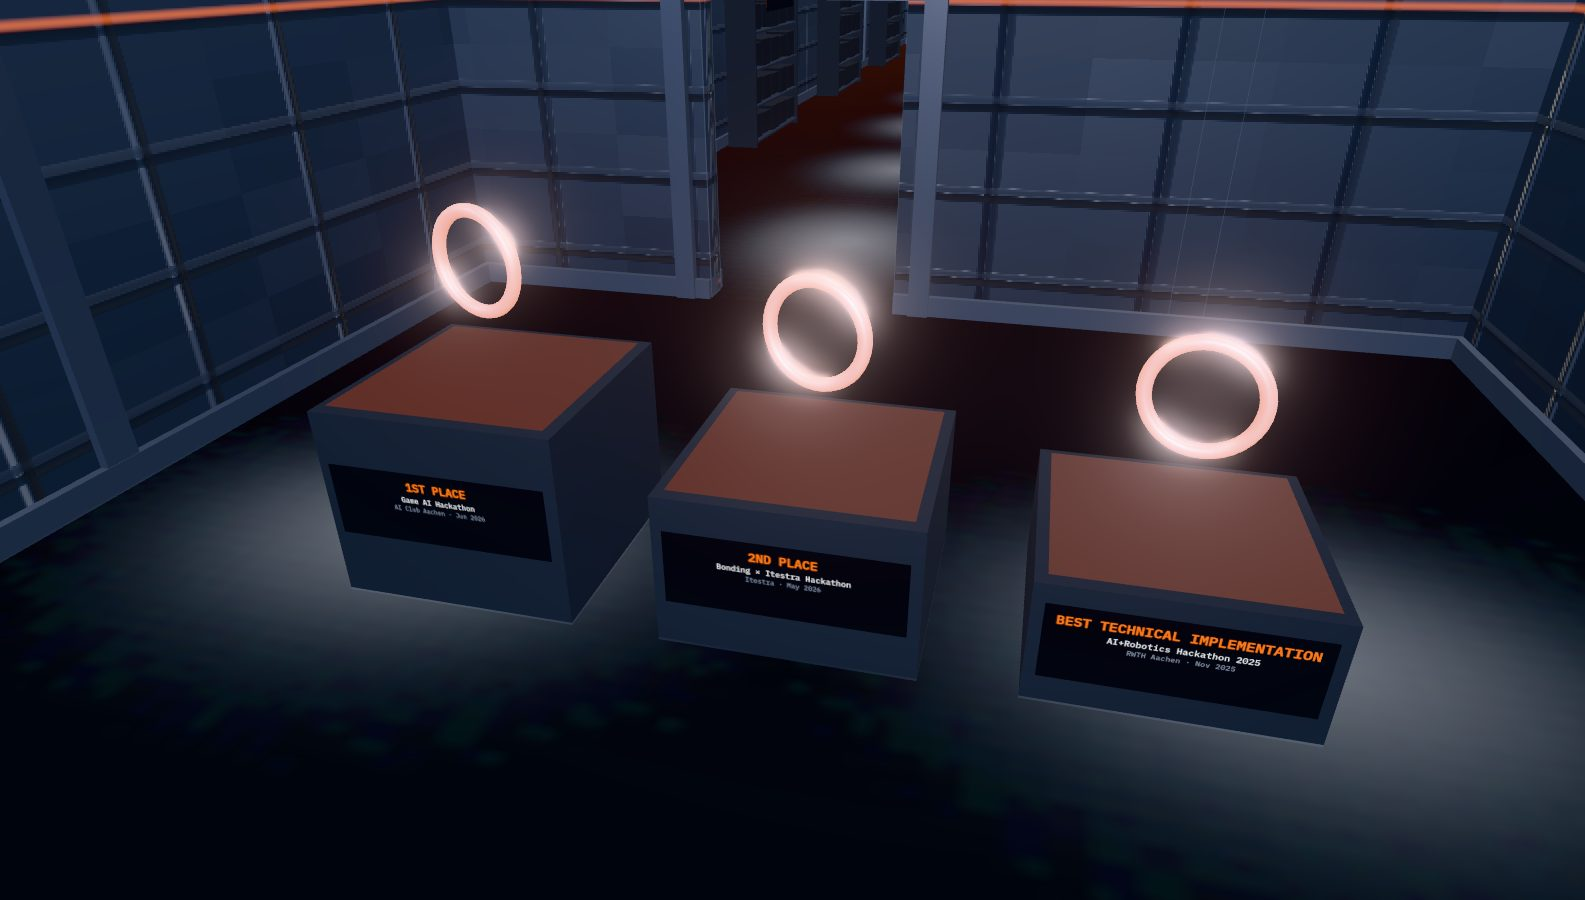
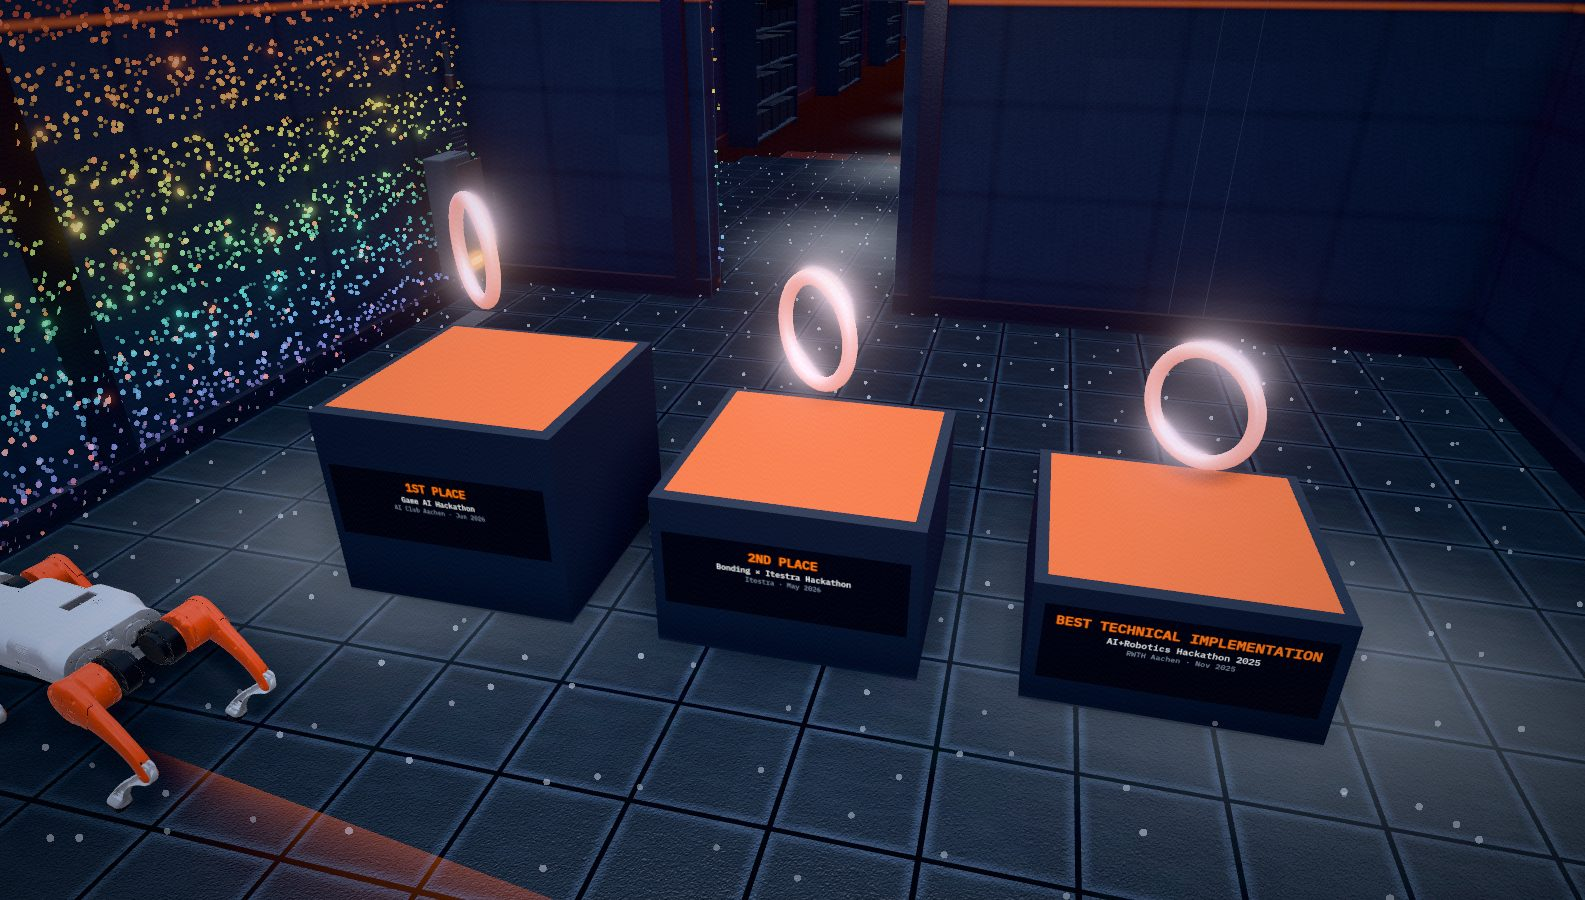
chore(assets): re-bake the posters against the new look
Textures, occlusion, the grade and the prop kit changed every frame of the
world, so the static-mode backgrounds no longer matched it. Baked with the
browser visible this time, which is what zone 3 needed: its hologram panels are
animated by framer-motion, and framer-motion runs on requestAnimationFrame.

diff --git a/docs/redesign/HANDOFF.md b/docs/redesign/HANDOFF.md
@@ -207,10 +207,25 @@ GitHub Pages soft limit is ~1 GB per site → re-encoding is not optional. Pendi
 
   **Working note worth keeping.** A hidden browser pane parks `requestAnimationFrame`. Screenshots still capture (they force a paint) so everything *looks* fine, but nothing animates, the R3F loop does not advance, GSAP does not tick, and — because the viewport boots at zero width — the page silently enters **static mode**, serving baked posters instead of the world. Two hours went into chasing symptoms of that. `?mode=world` forces the world on; `window.__r3f.advance(t)` steps the scene by hand (~250 ms a frame while hidden, and yield between batches or React never commits); `/lab/tall?cam=x,y,z&look=x,y,z` moves the lab rig for close inspection.
 
+- **2026-09-10 · session 3i · the world stops looking like coloured boxes**
+  Adyansh: *"all geometry colours are plane… enhance the entire world to make it look more realistic"*, then *"don't be shy… way more cooler"*. Every surface was a flat colour with a constant roughness — a real surface varies over centimetres and none of these did.
+
+  **A baked PBR library.** `scripts/blender/textures.py` renders six industrial material sets — sealed concrete, painted steel panel, ribbed roof deck, brushed structural steel, moulded tote, pebbled rubber — as Blender shader graphs, one channel at a time. They tile because they are sampled on a **torus in 4D**: `u,v → (cos a, sin a, cos b)` with `W = sin b`, so opposite edges of the square are literally the same point and there is no seam to hide. `scripts/textures/pack.py` turns the height field into a normal map (Sobel with `np.roll`, or the packing puts the seam back) and packs occlusion, roughness and metalness into one ORM texture.
+  Rendering beats baking headlessly: `bpy.ops.object.bake` wants a bake target, a UV layout and a lit scene and fails quietly in a dozen ways, while an ortho camera framing a UV-mapped plane through an Emission shader is exact and noiseless at one sample. **The gotcha that cost the first run:** `ShaderNodeMix` carries one output per data type and only the matching one is driven — taking Color from a Float mix silently emits white, which is why every height and roughness map came out flat.
+
+  **UVs.** None of this geometry has any: it is merged boxes, and a box's UVs run 0..1 per face, so a texture applied straight stretches to whatever size that box happens to be. `worldUV` rewrites them from world position projected on each vertex's dominant axis — triplanar mapping resolved once on the CPU rather than three times per fragment, which works precisely because the architecture is axis-aligned.
+
+  **Two things were doing most of the flatness, and neither was the textures.** Image-based lighting came from three's `RoomEnvironment`, which is a white photographic studio, so every metal surface in the building reflected the same neutral grey; it is now the facility's *own* lighting convolved to a cubemap — cool strips overhead, the warm accent bands along the walls, a dim floor bounce, black elsewhere. And nothing sat *in* anything, because ambient light arrives from every direction at once: **GTAO** is the single change that stops the world reading as flat-shaded blocks. A final `GradeShader` pass adds lens falloff, a filmic contrast roll and grain — one pass, and it does more for "photographed" than any amount of extra geometry.
+
+  **A modelled prop kit.** `scripts/blender/props.py` fixes the silhouettes — luminaires, bollards, cable tray, control cabinets, guard rail, charge docks, extinguishers, 89 kB of Draco GLB for the lot. Modelled rather than assembled from boxes in the browser for one reason: **bevels**. Placement lives in `lib/mission/props.ts` so `check:traffic` can see it, and it refused the first three attempts — railings across the hero's path into the hall, docks 4 cm inside its clearance, bollards a hand's width off the lanes. Anything above head height carries no footprint on purpose, because an AMR drives under a cable tray.
+  Gotchas: glTF splits a multi-material mesh into one primitive per material, so a prop is a *list* of parts sharing one set of matrices — taking only the first drew a bollard with no post. And Blender's mesh **datablock** name is what reaches glTF; left as `Cylinder.002`, nothing downstream can tell a bollard's parts from a dock's.
+
+  60 fps in the hall with GTAO, the grade and the props. Posters re-baked against the new look with the pane visible, so zone 3's panels are no longer black.
+
 ## 8. Next steps (in order)
 
 0. **State on 2026-09-03 end of session 1: P0–P5 essentially complete; the site runs locally at http://localhost:3000/my-portfolio (`npm run dev`).** Remaining polish ideas (not blockers): idle frame throttling (30 fps when no scroll), Lighthouse pass, hackathon/credential cards could reveal the podiums/racks more, robot arm hologram table alignment, R1 pose refinement, hero boot-log on short viewports, `?debug=joints` sliders. Deferred by Adyansh: media re-encode + broken `Robocon 1.mp4`, deployment. Nothing is committed on `redesign-3d` yet (ask Adyansh before committing/pushing).
 1. **Wait for Adyansh to say "go"** (he wanted to read the plan first). Answer any plan questions; adjust PLAN.md if he asks for changes.
 2. Then execute `docs/redesign/PLAN.md` phases P0 → P5 in order. Each phase ends with tsc + lint + browser check + updating this file's work log.
 3. Open items: which robot arm at the RWTH hackathon / Robotics Collective (PLAN assumes UR5e). Local commits are wanted and now exist (see the 2026-09-04 log entry); **pushing is still forbidden**.
-4. **Resume point (2026-09-09): see session 3h above.** The backlog is clear — collisions, arm kinematics, ceiling, audit and posters are all done. The one loose end is re-baking `public/posters/zone-3.jpg` with the browser pane visible, so the hologram panels are not black. Still deferred by Adyansh: media re-encode and deployment.
+4. **Resume point (2026-09-10): see session 3i above.** The world has real materials, occlusion, a grade and a prop kit. The backlog is clear — collisions, arm kinematics, ceiling, audit and posters are all done. The one loose end is re-baking `public/posters/zone-3.jpg` with the browser pane visible, so the hologram panels are not black. Still deferred by Adyansh: media re-encode and deployment.
